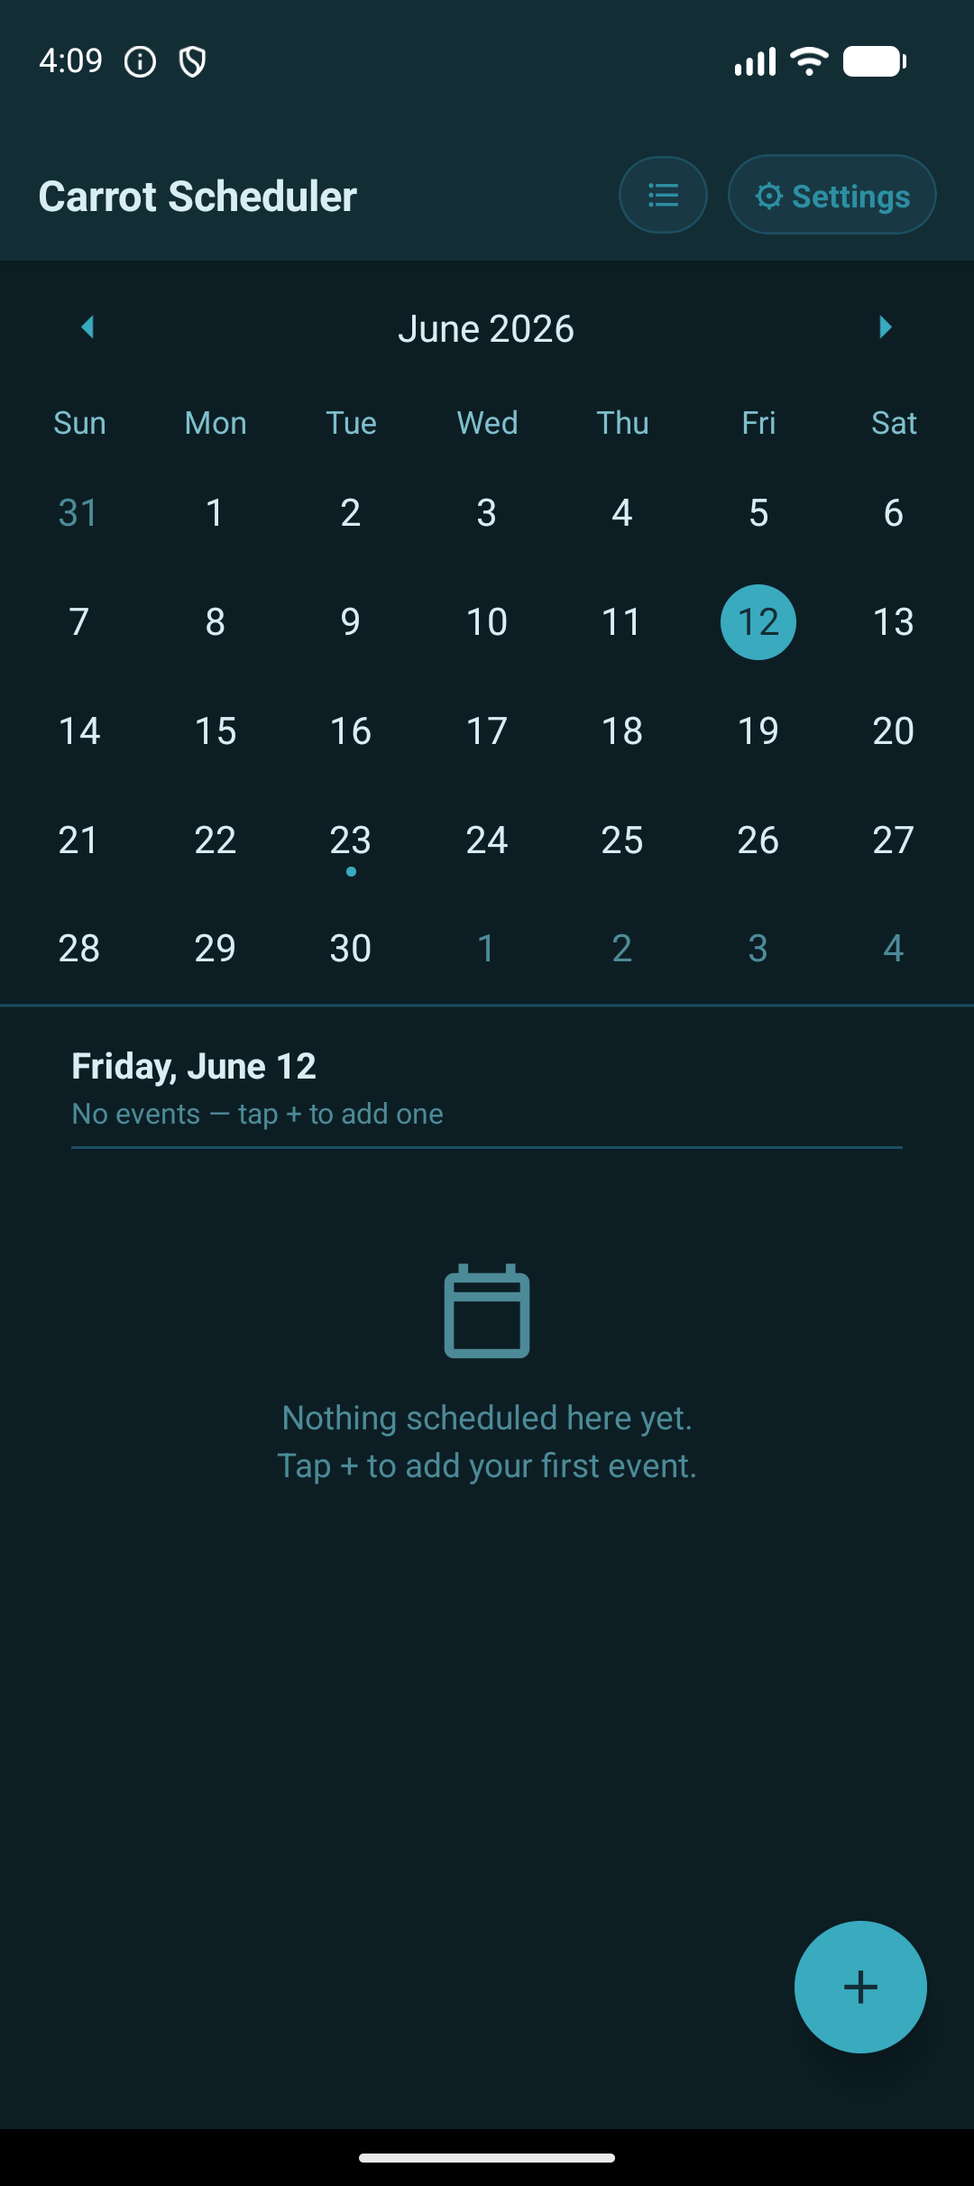
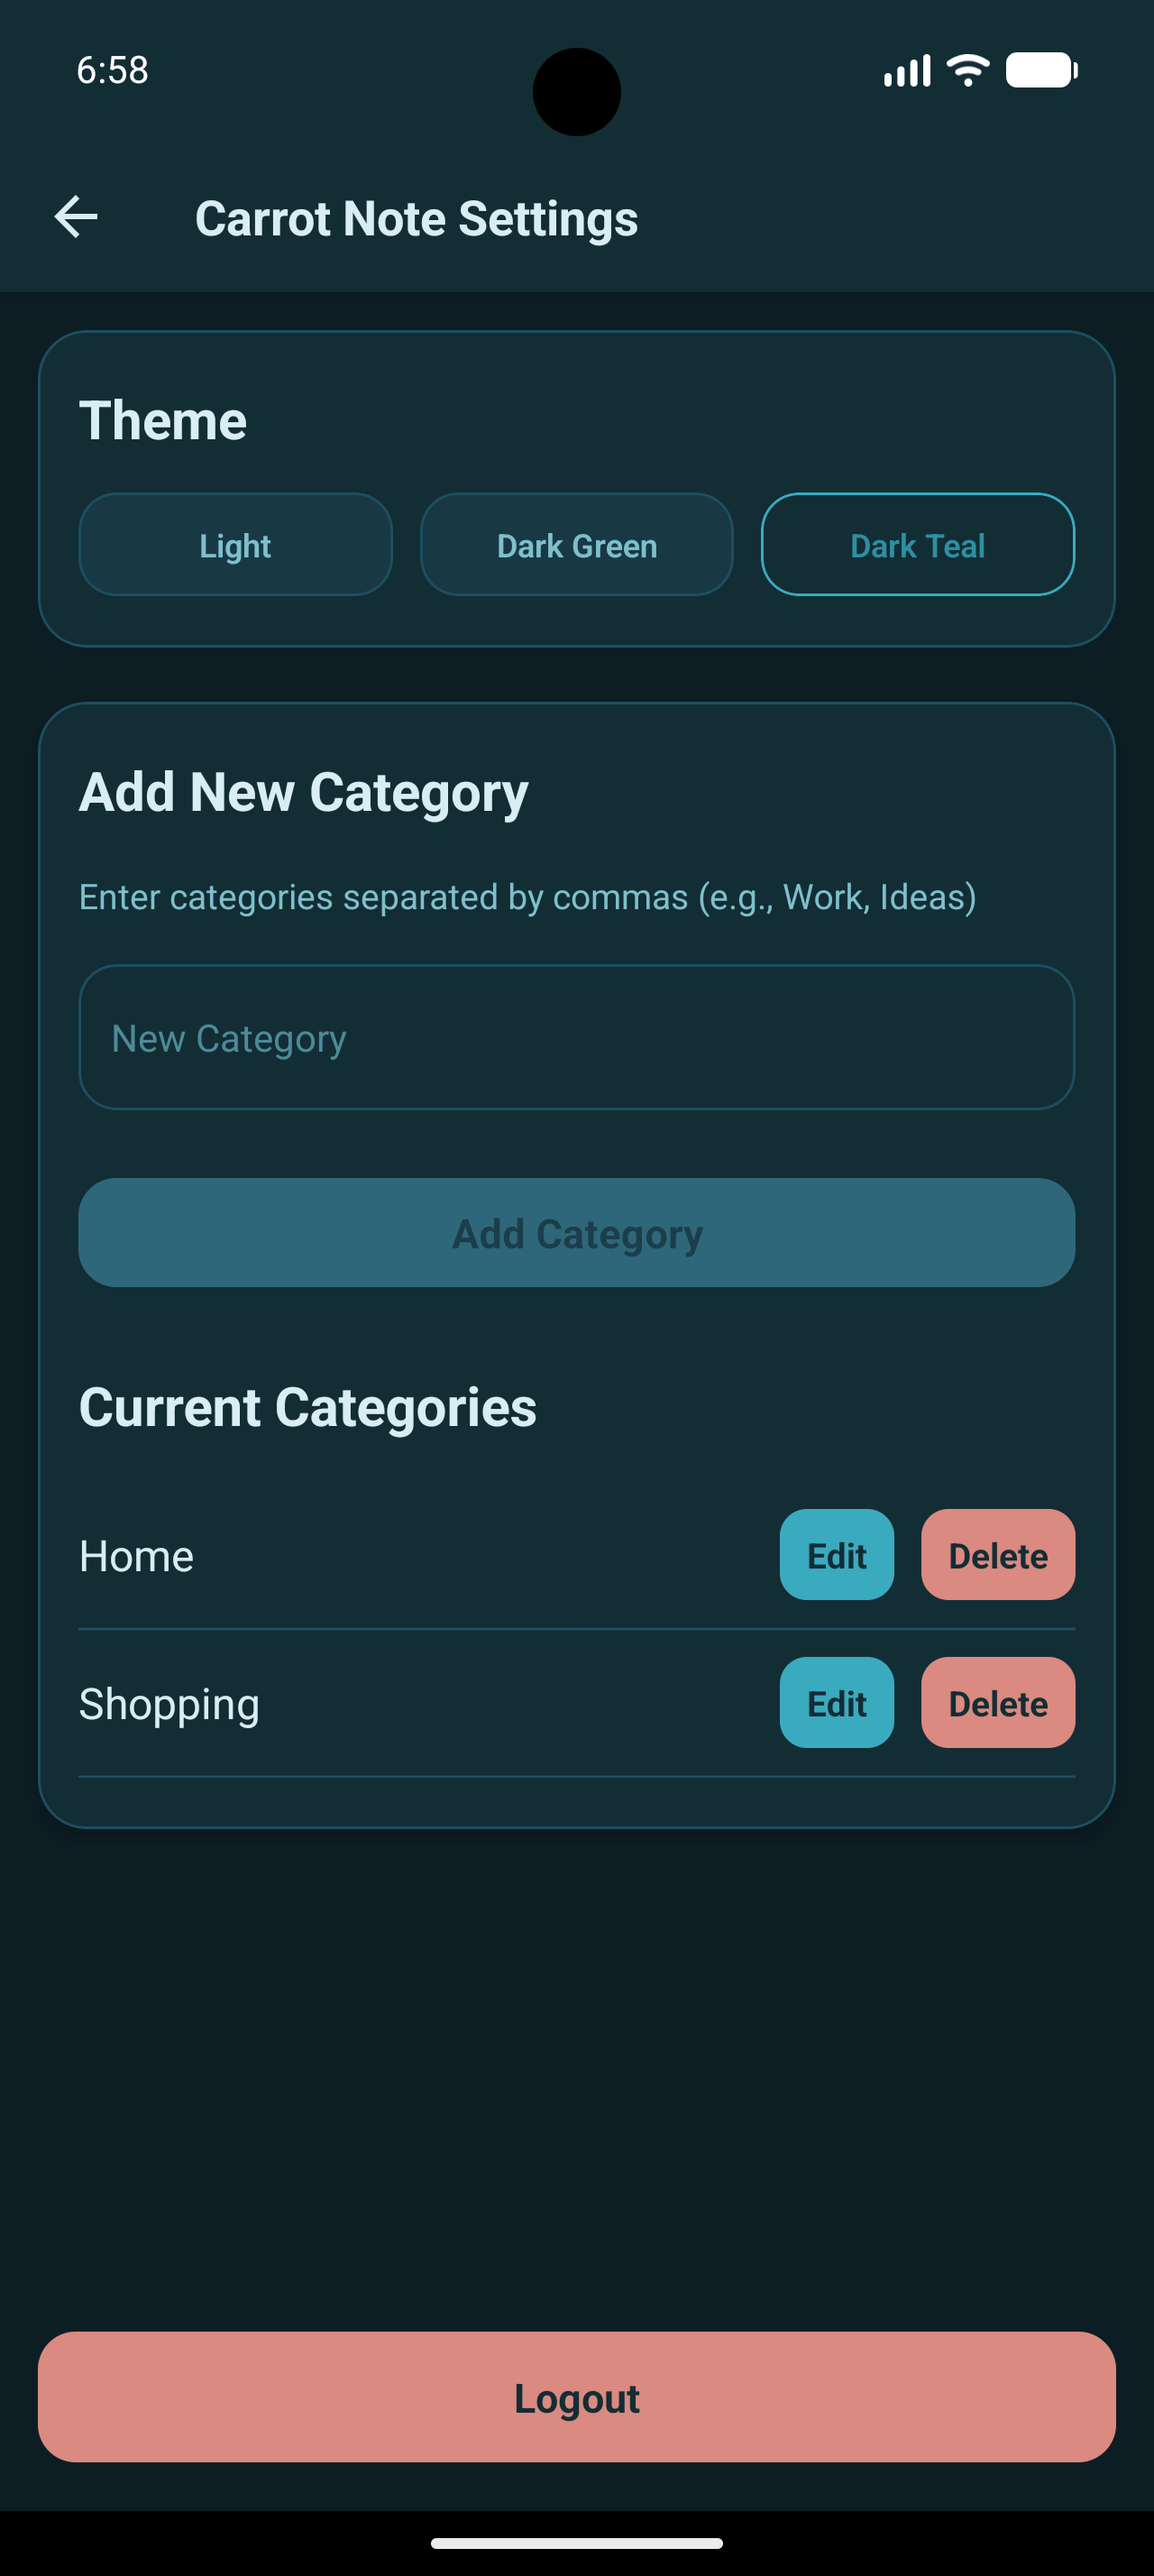
chore: Update project screenshots to include new note-3.png and revise mlradiofm image filenames

diff --git a/src/app/page.tsx b/src/app/page.tsx
@@ -161,7 +161,7 @@ const projects: IProject[] = [
     techStack: ["React Native", "TypeScript", "Expo", "Android", "iOS"],
     category: "mobile",
     note: "",
-    screenshotNames: ["note-1.png", "note-2.png", "note-4.png"],
+    screenshotNames: ["note-1.png", "note-2.png", "note-3.png", "note-4.png"],
   },
   {
     id: "proj-mobile-2",
@@ -183,7 +183,7 @@ const projects: IProject[] = [
     href: "https://github.com/michaeldslim/MlRadioFm/releases/latest",
     category: "macos",
     note: "",
-    screenshotNames: ["mlradiofm-1.png", "mlradiofm-2.png", "mlradiofm-3.png"],
+    screenshotNames: ["mlradiofm-01.png", "mlradiofm-02.png", "mlradiofm-03.png", "mlradiofm-04.png"],
   },
   {
     id: "proj-mobile-4",
